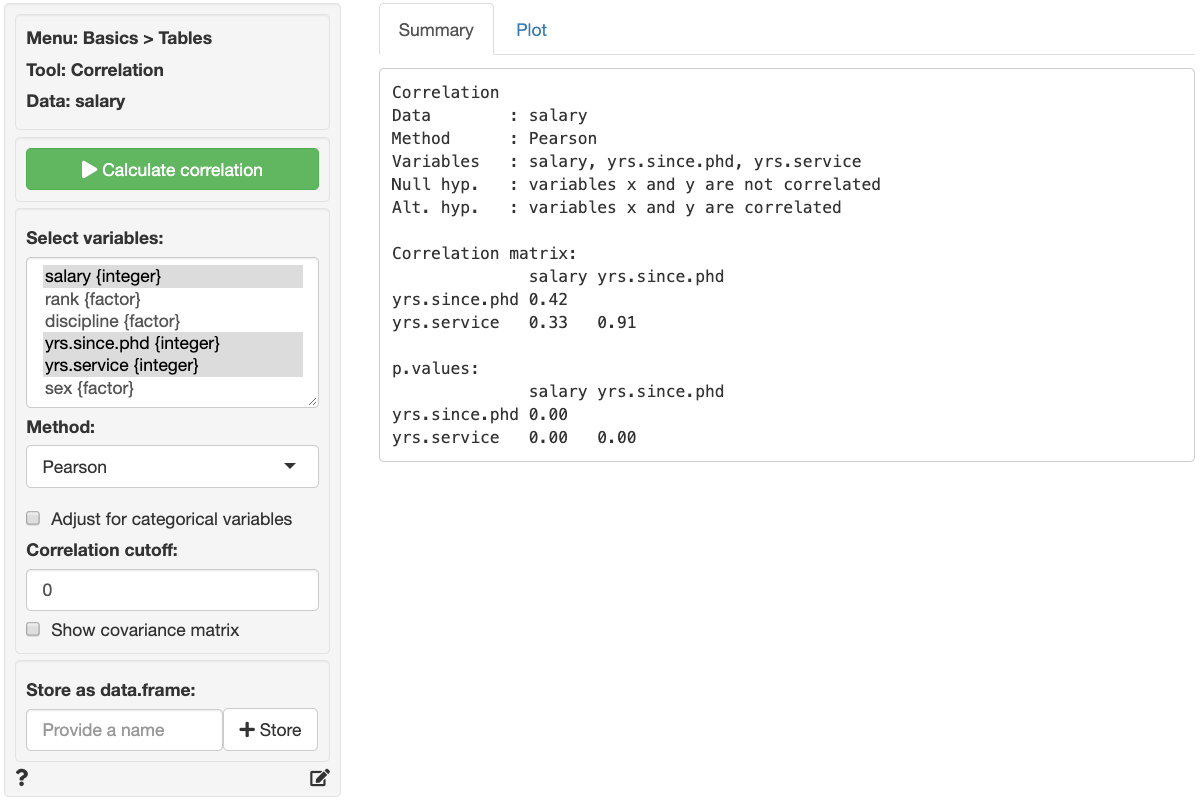
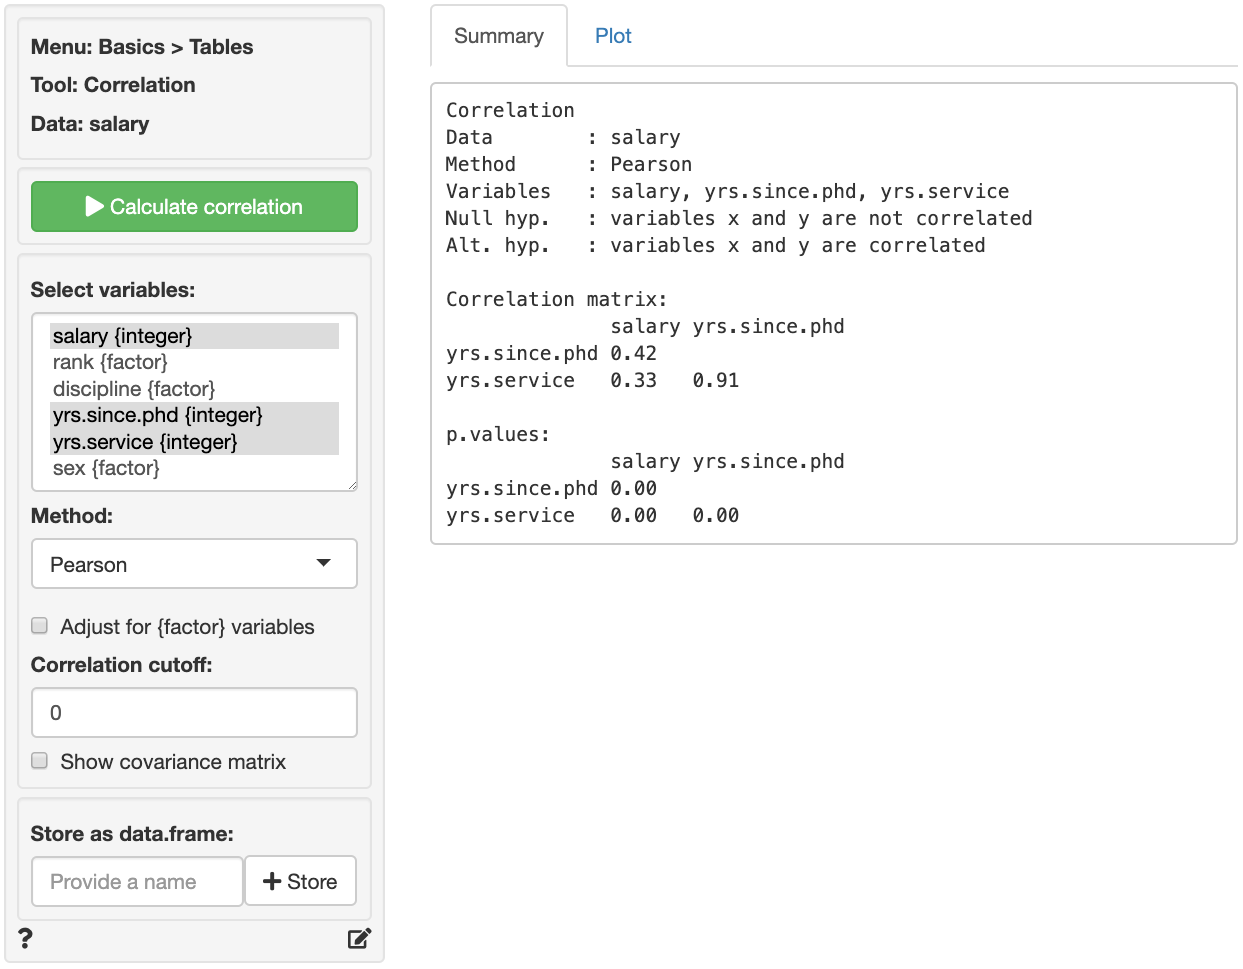
hetcor

diff --git a/inst/app/tools/help/correlation.md b/inst/app/tools/help/correlation.md
@@ -2,7 +2,7 @@
 
 Create a correlation matrix of the selected variables. Correlations and p.values are provided for each variable pair. To show only those correlations above a certain (absolute) level, use the correlation cutoff box.
 
-Note: Correlations can be calculated for variables of type `numeric`, `integer`, `date`, and `factor`. When variables of type factor are included the `Adjust for categorical variables` box should be checked. When correlations are estimated with adjustment, variables that are of type `factor` will be treated as either dichotomous (2-levels) or polytomous (> 2-levels). All other variables will be treated as continuous. 
+Note: Correlations can be calculated for variables of type `numeric`, `integer`, `date`, and `factor`. When variables of type factor are included the `Adjust for {factor} variables` box should be checked. When correlations are estimated with adjustment, variables that are of type `factor` will be treated as (ordinal) categorical variables and all other variables will be treated as continuous. 
 
 <p align="center"><img src="figures_basics/correlation_summary.png"></p>
 
